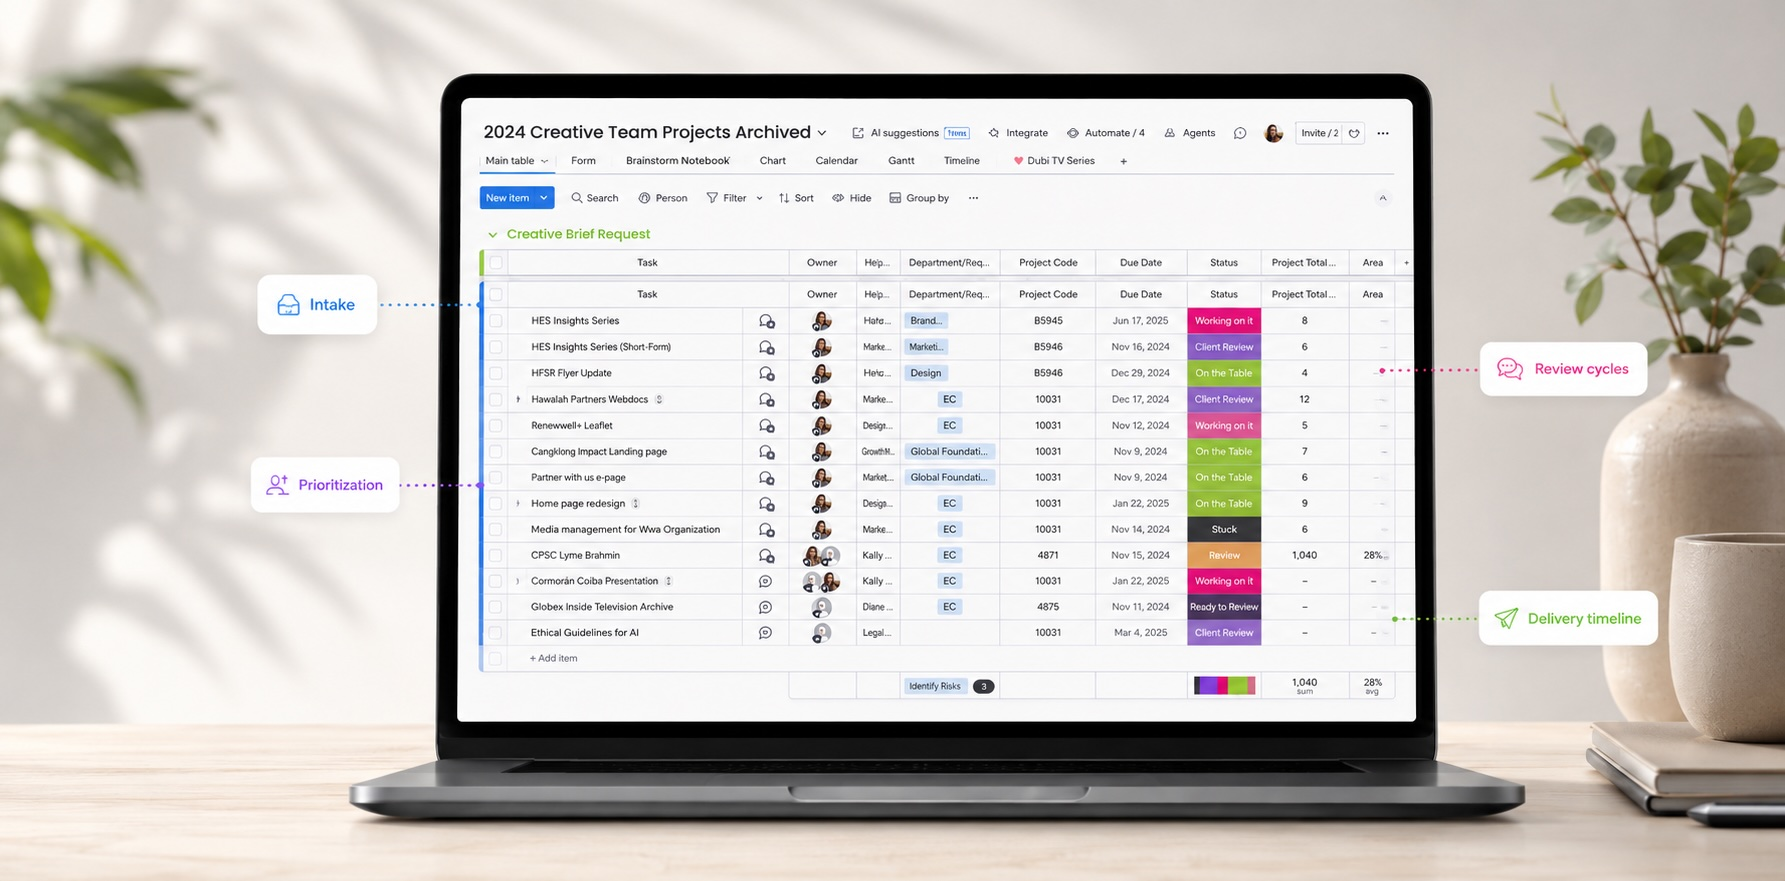
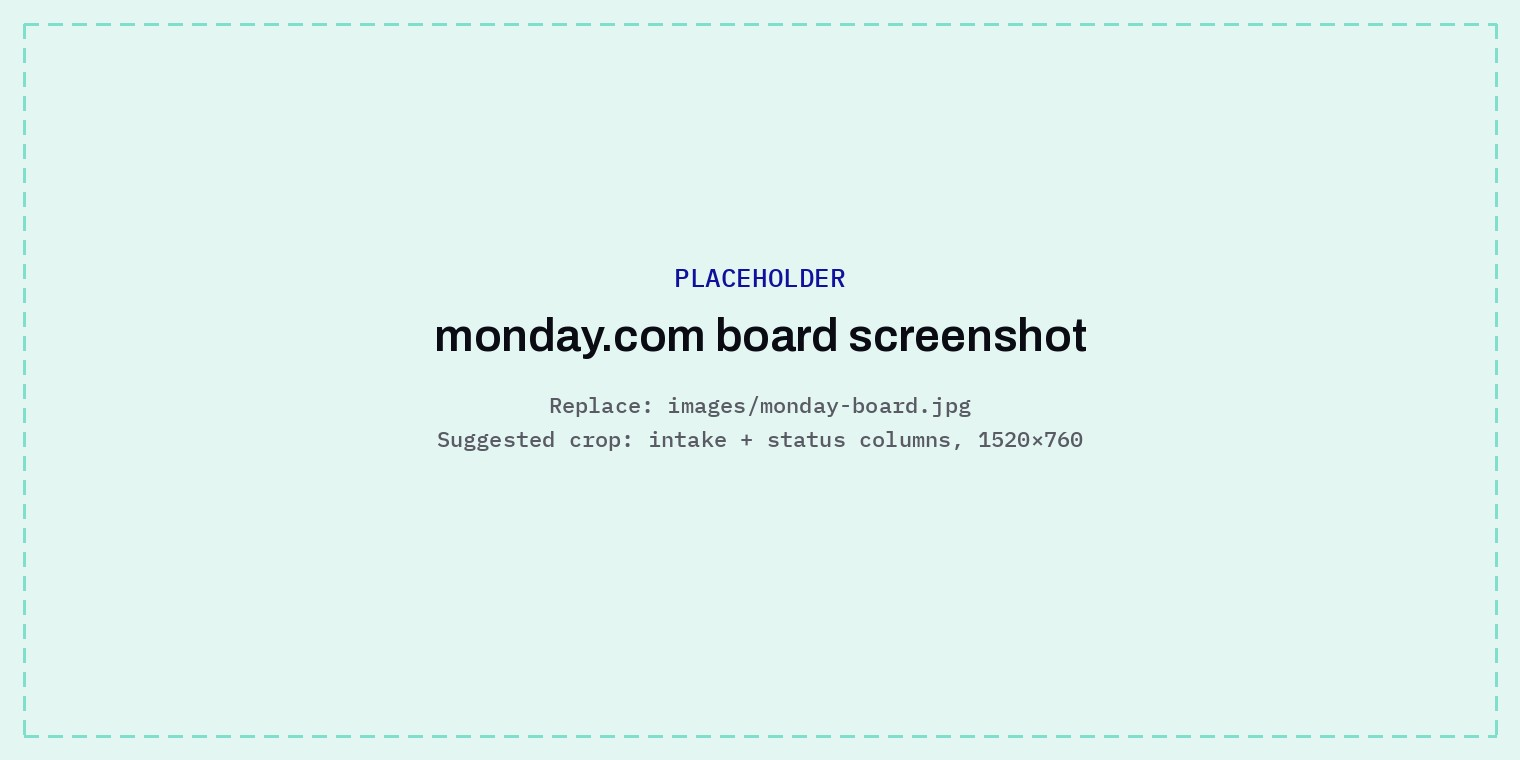
Add files via upload

diff --git a/css/hero.css b/css/hero.css
@@ -1,0 +1,199 @@
+/* ============================================================
+   hero.css — navy hero with rotating disciplines
+   Loaded AFTER style.css, so these rules win where they overlap.
+   Uses the same tokens as style.css. Prefixes: hb- and rot-.
+   To remove the hero entirely: delete this file, delete js/hero.js,
+   remove their two tags from index.html, and restore the old
+   <header class="site-hero"> block.
+   ============================================================ */
+
+/* ---------- hero shell ---------- */
+.hero-b{
+  position:relative;
+  overflow:hidden;
+  display:flex;
+  align-items:center;
+  min-height:min(90vh,860px);
+  padding:118px 0 96px;
+  background:var(--navy);
+  color:var(--paper);
+}
+.hero-b .wrap{position:relative;z-index:2}
+
+/* ---------- ambient aurora ---------- */
+.hero-b .hb-field{position:absolute;inset:-25% -12%;z-index:0;pointer-events:none}
+.hero-b .hb-field span{position:absolute;border-radius:50%;filter:blur(80px);will-change:transform}
+.hero-b .hb-field .b1{
+  width:70vw;height:62vw;max-width:1000px;max-height:900px;
+  top:-18%;right:-12%;opacity:.9;
+  background:radial-gradient(circle at 42% 42%,rgba(26,26,230,.85),rgba(26,26,230,0) 66%);
+  animation:hbDriftA 26s ease-in-out infinite;
+}
+.hero-b .hb-field .b2{
+  width:52vw;height:52vw;max-width:760px;max-height:760px;
+  bottom:-26%;left:-14%;opacity:.8;
+  background:radial-gradient(circle at 55% 45%,rgba(127,223,204,.55),rgba(127,223,204,0) 68%);
+  animation:hbDriftB 34s ease-in-out infinite;
+}
+.hero-b .hb-field .b3{
+  width:34vw;height:34vw;max-width:500px;max-height:500px;
+  top:32%;left:36%;opacity:.55;
+  background:radial-gradient(circle at 50% 50%,rgba(16,16,158,.75),rgba(16,16,158,0) 70%);
+  animation:hbDriftC 30s ease-in-out infinite;
+}
+@keyframes hbDriftA{0%,100%{transform:translate3d(0,0,0) scale(1)}50%{transform:translate3d(-4%,4%,0) scale(1.08)}}
+@keyframes hbDriftB{0%,100%{transform:translate3d(0,0,0) scale(1)}50%{transform:translate3d(5%,-3%,0) scale(1.1)}}
+@keyframes hbDriftC{0%,100%{transform:translate3d(0,0,0) scale(1)}50%{transform:translate3d(-6%,-5%,0) scale(1.14)}}
+
+/* ---------- type ---------- */
+.hero-b .hb-eyebrow{
+  font-family:var(--mono);font-size:12.5px;letter-spacing:.08em;
+  text-transform:uppercase;color:var(--mid);
+  display:flex;align-items:center;gap:10px;margin-bottom:26px;
+}
+.hero-b .hb-dot{width:7px;height:7px;border-radius:50%;background:var(--mid);flex:none}
+
+.hero-b h1{
+  font-family:var(--disp);font-weight:850;font-stretch:118%;
+  font-size:clamp(38px,5.2vw,66px);line-height:1;letter-spacing:-.025em;
+  color:var(--paper);max-width:16ch;margin-bottom:16px;
+}
+/* teal emphasis, and no mint sweep behind it on the dark ground */
+.hero-b h1 em{
+  font-style:normal;color:var(--mid);
+  background-image:none;background-size:0 0;
+}
+
+.hero-b .hb-line{
+  font-family:var(--disp);font-weight:700;font-stretch:105%;
+  font-size:clamp(22px,2.8vw,36px);line-height:1.22;letter-spacing:-.015em;
+  color:var(--paper);margin-bottom:28px;
+}
+
+/* ---------- rotator: brackets and word, one teal ---------- */
+.rot{display:inline-flex;align-items:baseline;white-space:nowrap}
+.rot .brk{font-family:var(--mono);font-weight:400;color:var(--mid);opacity:.5}
+.rot-track{
+  position:relative;display:inline-block;
+  height:1.2em;line-height:1.2;margin:0 .1em;
+  transition:width .62s cubic-bezier(.22,1.16,.36,1);
+  will-change:width;
+}
+.rot-track::before{content:"\200B"}   /* keeps a real text baseline for the brackets */
+.rot-track::after{
+  content:"";position:absolute;left:-.06em;right:-.06em;bottom:.06em;height:.2em;
+  background:rgba(127,223,204,.22);border-radius:99px;z-index:-1;
+  transform-origin:left center;animation:hbCushion 3s ease-in-out infinite;
+}
+@keyframes hbCushion{0%,100%{transform:scaleY(1);opacity:.85}50%{transform:scaleY(1.35);opacity:1}}
+.rot-word{
+  position:absolute;left:0;top:0;line-height:1.2;white-space:nowrap;
+  color:var(--mid);opacity:0;
+  transform:translate3d(0,.42em,0);filter:blur(5px);
+  transition:opacity .42s ease,transform .52s cubic-bezier(.22,1.16,.36,1),filter .42s ease;
+}
+.rot-word.in{opacity:1;transform:translate3d(0,0,0);filter:blur(0)}
+.rot-word.out{opacity:0;transform:translate3d(0,-.42em,0);filter:blur(5px)}
+.rot-measure{position:absolute;visibility:hidden;white-space:nowrap;pointer-events:none;top:-9999px;left:-9999px}
+
+/* ---------- areas row ---------- */
+.hero-b .hb-areas{display:flex;flex-wrap:wrap;gap:8px;margin-bottom:30px;list-style:none}
+.hero-b .hb-areas li{margin:0}
+.hero-b .hb-areas button{
+  font-family:var(--mono);font-size:12px;letter-spacing:.05em;
+  color:rgba(250,250,248,.86);background:transparent;
+  border:1px solid rgba(250,250,248,.22);border-radius:100px;
+  padding:9px 15px;cursor:pointer;
+  transition:background .35s ease,border-color .35s ease,color .35s ease,transform .2s ease;
+}
+.hero-b .hb-areas button:hover{border-color:var(--mid);color:var(--mid);transform:translateY(-1px)}
+.hero-b .hb-areas button[aria-current="true"]{
+  background:rgba(127,223,204,.16);border-color:var(--mid);color:var(--paper);
+}
+.hero-b .hb-areas button:focus-visible,
+.hero-b .hb-cta:focus-visible,
+.hero-b .hb-ghost:focus-visible{outline:2px solid var(--mid);outline-offset:3px}
+
+/* ---------- support copy and actions ---------- */
+.hero-b .hb-sub{
+  font-family:var(--body);font-size:17px;line-height:1.6;
+  color:rgba(250,250,248,.74);max-width:54ch;margin-bottom:32px;
+}
+.hero-b .hb-actions{display:flex;flex-wrap:wrap;gap:16px;align-items:center}
+.hero-b .hb-cta{
+  display:inline-flex;align-items:center;gap:10px;
+  font-family:var(--body);font-weight:600;font-size:15px;
+  background:var(--mid);color:var(--navy);text-decoration:none;
+  padding:14px 24px;border-radius:14px;
+  transition:background .25s ease,transform .25s ease;
+}
+.hero-b .hb-cta:hover{background:var(--tint-deep);transform:translateY(-2px)}
+.hero-b .hb-cta .arw{transition:transform .25s ease}
+.hero-b .hb-cta:hover .arw{transform:translateX(4px)}
+.hero-b .hb-ghost{
+  font-family:var(--body);font-weight:500;font-size:15px;
+  color:var(--tint);text-decoration:none;
+  border-bottom:1px solid rgba(227,246,242,.35);padding-bottom:2px;
+}
+.hero-b .hb-ghost:hover{color:var(--mid);border-color:var(--mid)}
+
+/* ---------- entrance stagger ---------- */
+.hero-b .hb-up{opacity:0;transform:translateY(18px);animation:hbUp .8s cubic-bezier(.2,.7,.3,1) forwards}
+.hero-b .hb-d1{animation-delay:.06s}
+.hero-b .hb-d2{animation-delay:.18s}
+.hero-b .hb-d3{animation-delay:.30s}
+.hero-b .hb-d4{animation-delay:.42s}
+.hero-b .hb-d5{animation-delay:.54s}
+@keyframes hbUp{to{opacity:1;transform:none}}
+
+.hb-sr{position:absolute;width:1px;height:1px;padding:0;margin:-1px;overflow:hidden;clip:rect(0 0 0 0);white-space:nowrap;border:0}
+
+/* ---------- the stats strip is also navy: hairline keeps them distinct ---------- */
+.hero-b + .strip{border-top:1px solid rgba(250,250,248,.14)}
+
+/* ---------- nav inversion while the dark hero sits under the nav ---------- */
+nav.on-dark{
+  background:rgba(10,10,92,.72);
+  backdrop-filter:saturate(140%) blur(10px);
+  -webkit-backdrop-filter:saturate(140%) blur(10px);
+  border-bottom-color:rgba(250,250,248,.16);
+  box-shadow:none;
+}
+nav.on-dark .logo img{filter:brightness(0) invert(1)}
+nav.on-dark .nav-links a{color:var(--paper)}
+nav.on-dark .nav-links a:hover,
+nav.on-dark .nav-links a:focus-visible{color:var(--mid)}
+nav.on-dark .nav-cta{border-color:var(--mid);color:var(--mid)}
+nav.on-dark .nav-cta:hover{background:var(--mid);color:var(--navy)!important}
+nav.on-dark .nav-toggle span{background:var(--paper)}
+
+/* mobile dropdown has a paper background by default, which would hide
+   white links, so it goes navy while the nav is on dark */
+@media (max-width:640px){
+  nav.on-dark .nav-links{background:rgba(10,10,92,.98);border-bottom-color:rgba(250,250,248,.16)}
+  nav.on-dark .nav-links a:not(.nav-cta){border-bottom-color:rgba(250,250,248,.16)}
+}
+
+/* ---------- mobile ---------- */
+@media (max-width:900px){
+  .hero-b{min-height:auto;padding:96px 0 76px}
+}
+@media (max-width:640px){
+  .hero-b{padding:72px 0 60px}
+  .hero-b .wrap{padding-left:40px;padding-right:40px}
+  .hero-b h1{max-width:none;font-size:clamp(34px,8.6vw,46px)}
+  .hero-b .hb-line{font-size:clamp(21px,6vw,28px)}
+  .hero-b .hb-areas button{font-size:11px;padding:8px 13px}
+  .hero-b .hb-sub{font-size:16px}
+  .hero-b .hb-field span{filter:blur(50px)}
+}
+
+/* ---------- motion off ---------- */
+@media (prefers-reduced-motion:reduce){
+  .hero-b .hb-field span,
+  .rot-track::after{animation:none}
+  .hero-b .hb-up{opacity:1;transform:none;animation:none}
+  .rot-word{opacity:0;transform:none;filter:none}
+  .rot-word.in{opacity:1}
+  .rot-word.out{opacity:0}
+}

diff --git a/js/hero.js b/js/hero.js
@@ -1,0 +1,117 @@
+/* analambert.com hero layer
+   Rotating disciplines in the hero, and nav inversion over the navy hero.
+   Runs after motion.js. Both are independent: neither breaks if the other
+   changes. No-ops if the hero markup is not on the page.
+
+   To change the disciplines, edit AREAS. The pills, the rotation and the
+   screen reader sentence all rebuild from that one array.
+   To change the pace, edit HOLD. Below 2000 it starts to feel twitchy.
+*/
+(function () {
+  var AREAS = ['brand', 'campaign', 'creative strategy', 'website', 'design system'];
+  var HOLD = 2600;
+
+  var rot = document.getElementById('rot');
+  var track = document.getElementById('rotTrack');
+  var areasEl = document.getElementById('areas');
+  var srEl = document.getElementById('rotSr');
+  if (!rot || !track || !areasEl || !srEl) return;
+
+  /* the animated line is aria-hidden, so screen readers get the full list */
+  srEl.textContent = 'So ask me about your ' + AREAS.join(', ') + '.';
+
+  var words = AREAS.map(function (label) {
+    var el = document.createElement('span');
+    el.className = 'rot-word';
+    el.textContent = label;
+    track.appendChild(el);
+    return el;
+  });
+
+  var pills = AREAS.map(function (label, i) {
+    var li = document.createElement('li');
+    var b = document.createElement('button');
+    b.type = 'button';
+    b.textContent = label;
+    b.addEventListener('click', function () { stop(); show(i); });
+    li.appendChild(b);
+    areasEl.appendChild(li);
+    return b;
+  });
+
+  /* measured with the real rendered font so the brackets land exactly */
+  var ghost = document.createElement('span');
+  ghost.className = 'rot-measure';
+  document.body.appendChild(ghost);
+
+  var widths = [], current = 0, timer = null;
+
+  function measure() {
+    var cs = getComputedStyle(words[0]);
+    ghost.style.fontFamily = cs.fontFamily;
+    ghost.style.fontSize = cs.fontSize;
+    ghost.style.fontWeight = cs.fontWeight;
+    ghost.style.fontStyle = cs.fontStyle;
+    ghost.style.fontStretch = cs.fontStretch;
+    ghost.style.letterSpacing = cs.letterSpacing;
+    widths = AREAS.map(function (label) {
+      ghost.textContent = label;
+      return ghost.offsetWidth;
+    });
+    track.style.width = widths[current] + 'px';
+  }
+
+  function show(i) {
+    words[current].classList.remove('in');
+    words[current].classList.add('out');
+    pills[current].removeAttribute('aria-current');
+
+    current = i;
+
+    track.style.width = widths[current] + 'px';
+    words[current].classList.remove('out');
+    words[current].classList.add('in');
+    pills[current].setAttribute('aria-current', 'true');
+    start();
+  }
+
+  function start() {
+    stop();
+    timer = setTimeout(function () { show((current + 1) % AREAS.length); }, HOLD);
+  }
+  function stop() {
+    if (timer) { clearTimeout(timer); timer = null; }
+  }
+
+  /* pause on hover and on keyboard focus so the line can be read */
+  [rot, areasEl].forEach(function (el) {
+    el.addEventListener('mouseenter', stop);
+    el.addEventListener('mouseleave', start);
+    el.addEventListener('focusin', stop);
+  });
+  document.addEventListener('visibilitychange', function () {
+    if (document.hidden) { stop(); } else { start(); }
+  });
+  window.addEventListener('resize', measure);
+
+  function init() {
+    measure();
+    words[0].classList.add('in');
+    pills[0].setAttribute('aria-current', 'true');
+    start();
+  }
+  if (document.fonts && document.fonts.ready) {
+    document.fonts.ready.then(init);
+  } else {
+    init();
+  }
+
+  /* ---- nav inversion: white logo and links while the navy hero is behind ---- */
+  var hero = document.getElementById('hero');
+  var nav = document.querySelector('nav');
+  if (!hero || !nav) return;
+  if (!('IntersectionObserver' in window)) { nav.classList.add('on-dark'); return; }
+  new IntersectionObserver(function (entries) {
+    nav.classList.toggle('on-dark', entries[0].isIntersecting);
+  }, { rootMargin: '-72px 0px 0px 0px', threshold: 0 }).observe(hero);
+})();

diff --git a/index.html b/index.html
@@ -9,6 +9,7 @@
 <link href="https://fonts.googleapis.com/css2?family=Archivo:wdth,wght@62..125,100..900&family=Instrument+Sans:wght@400;500;600&family=IBM+Plex+Mono:wght@400;500&display=swap" rel="stylesheet">
 <link rel="icon" type="image/svg+xml" href="images/favicon.svg">
 <link rel="stylesheet" href="css/style.css">
+<link rel="stylesheet" href="css/hero.css">
 </head>
 <body>
 
@@ -24,17 +25,33 @@
   </div>
 </div></nav>
 
-<header class="site-hero" data-bg="#FAFAF8"><div class="wrap hero">
-  <div class="kicker">Creative Direction · Brand · Campaigns · Digital</div>
-  <h1>Creative work that <em>holds together</em> at scale.</h1>
-  <p class="hero-sub">I'm Ana Ortega Lambert, a creative director working across brand identity, integrated campaigns, and digital experiences. I've led creative for a portfolio of <b>10+ brands across 40+ country markets</b>, I still design hands-on, and I build the systems that let strong work stay strong once it leaves my hands.</p>
-  <div class="tokens" aria-hidden="true">
-    <div class="token"><span class="swatch"></span> brand.blue · #1A1AE6</div>
-    <div class="token"><span class="swatch ink"></span> ink · #0B0B14</div>
-    <div class="token"><span class="aa">Aa</span> Archivo / Instrument</div>
-    <div class="token"><span class="swatch tint"></span> system · in use below</div>
+<header class="hero-b" id="hero" data-bg="#0A0A5C">
+  <div class="hb-field" aria-hidden="true"><span class="b1"></span><span class="b2"></span><span class="b3"></span></div>
+  <div class="wrap">
+    <p class="hb-eyebrow hb-up hb-d1"><span class="hb-dot"></span>Ana Ortega Lambert · Creative Director</p>
+
+    <h1 class="hb-up hb-d2">Creative work that <em>holds together</em> at scale.</h1>
+
+    <p class="hb-line hb-up hb-d3">
+      So ask me about your
+      <span class="rot" id="rot" aria-hidden="true">
+        <span class="brk">[</span>
+        <span class="rot-track" id="rotTrack"></span>
+        <span class="brk">]</span>
+      </span>
+      <span class="hb-sr" id="rotSr"></span>
+    </p>
+
+    <ul class="hb-areas hb-up hb-d4" id="areas" aria-label="Areas I work in"></ul>
+
+    <p class="hb-sub hb-up hb-d4">Creative direction, mainly for public health brands running in 40+ country markets, where work that gets ignored has a real cost. I have built the brand systems, run the campaigns, designed the sites and written the strategy, so I can lead specialists in any of them and tell you early which one your problem actually needs.</p>
+
+    <div class="hb-actions hb-up hb-d5">
+      <a class="hb-cta" href="#work">See the work <span class="arw">&rarr;</span></a>
+      <a class="hb-ghost" href="mailto:analinet.ortega@gmail.com">Get in touch</a>
+    </div>
   </div>
-</div></header>
+</header>
 
 <div class="strip" data-bg="#FAFAF8"><div class="wrap strip-in">
   <div class="stat"><div class="n">10<span>+</span></div><div class="l">Brands directed</div></div>
@@ -114,5 +131,6 @@
 </div></footer>
 
 <script src="js/motion.js" defer></script>
+<script src="js/hero.js" defer></script>
 </body>
 </html>
